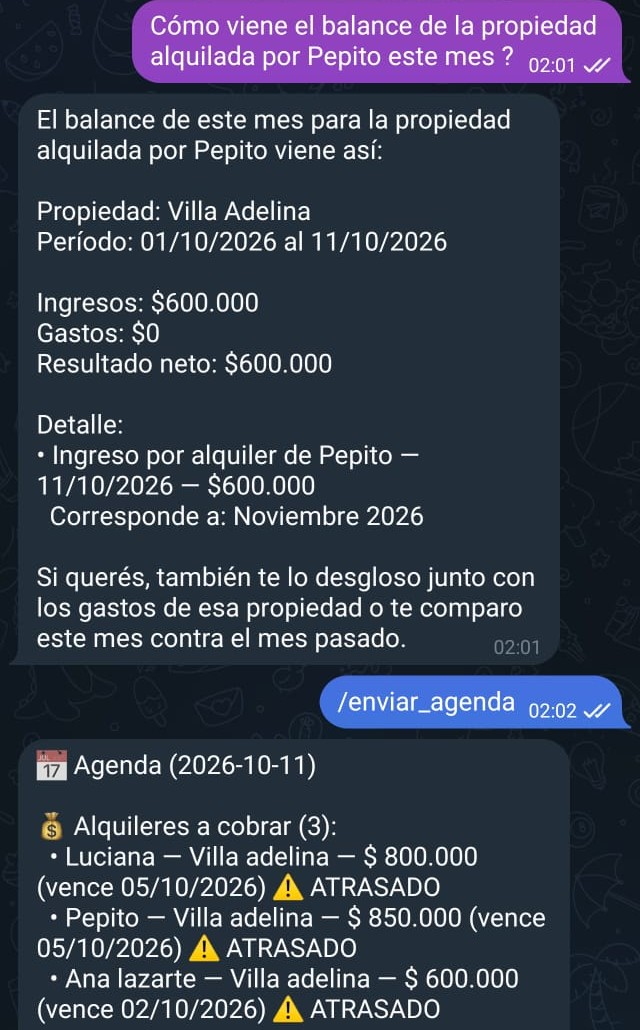
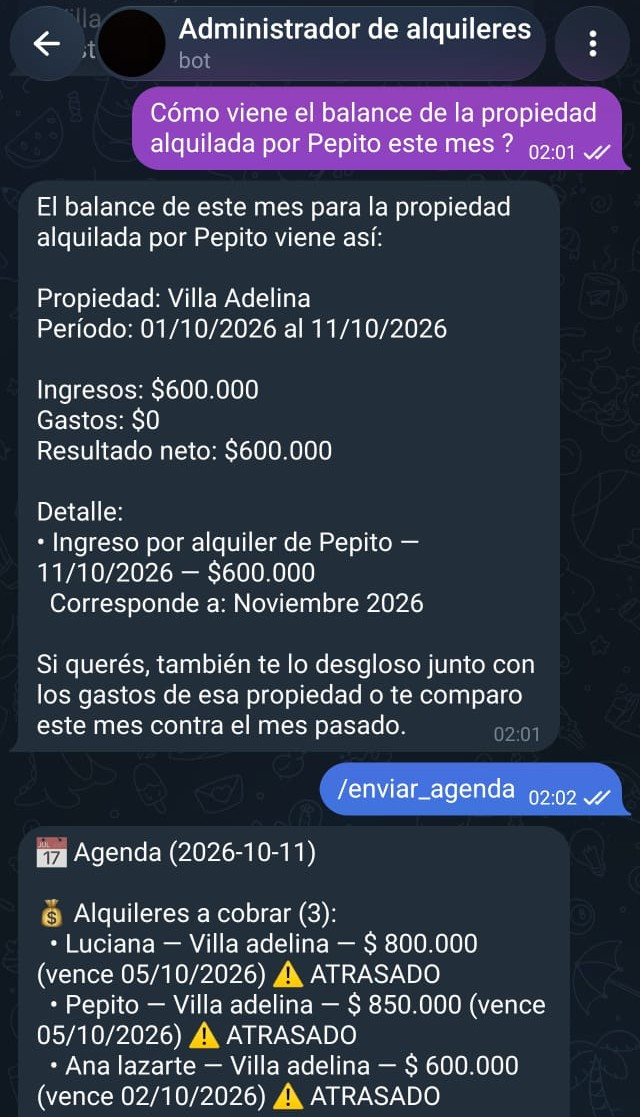
Alquileres: capturas con encabezado del bot visible

diff --git a/index.html b/index.html
@@ -76,11 +76,11 @@
         <p class="lead">Bot que reemplaza planillas, mensajes sueltos y memoria en la administración de alquileres. Lo usa una sola persona, el administrador.</p>
         <div class="shots">
           <figure>
-            <img src="img/alquileres/pago-guiado.jpg" alt="Chat de Telegram: flujo guiado para registrar un pago, con confirmación final" loading="lazy" width="640" height="1152">
+            <img src="img/alquileres/pago-guiado.jpg" alt="Chat de Telegram: flujo guiado para registrar un pago, con confirmación final" loading="lazy" width="640" height="1274">
             <figcaption>Flujo guiado, sin IA: botones y registro de un pago paso a paso.</figcaption>
           </figure>
           <figure>
-            <img src="img/alquileres/balance-y-agenda.jpg" alt="Chat de Telegram: consulta de balance en lenguaje natural y resumen de agenda" loading="lazy" width="640" height="1030">
+            <img src="img/alquileres/balance-y-agenda.jpg" alt="Chat de Telegram: consulta de balance en lenguaje natural y resumen de agenda" loading="lazy" width="640" height="1117">
             <figcaption>Texto libre con IA: balance de una propiedad y agenda del día.</figcaption>
           </figure>
         </div>
